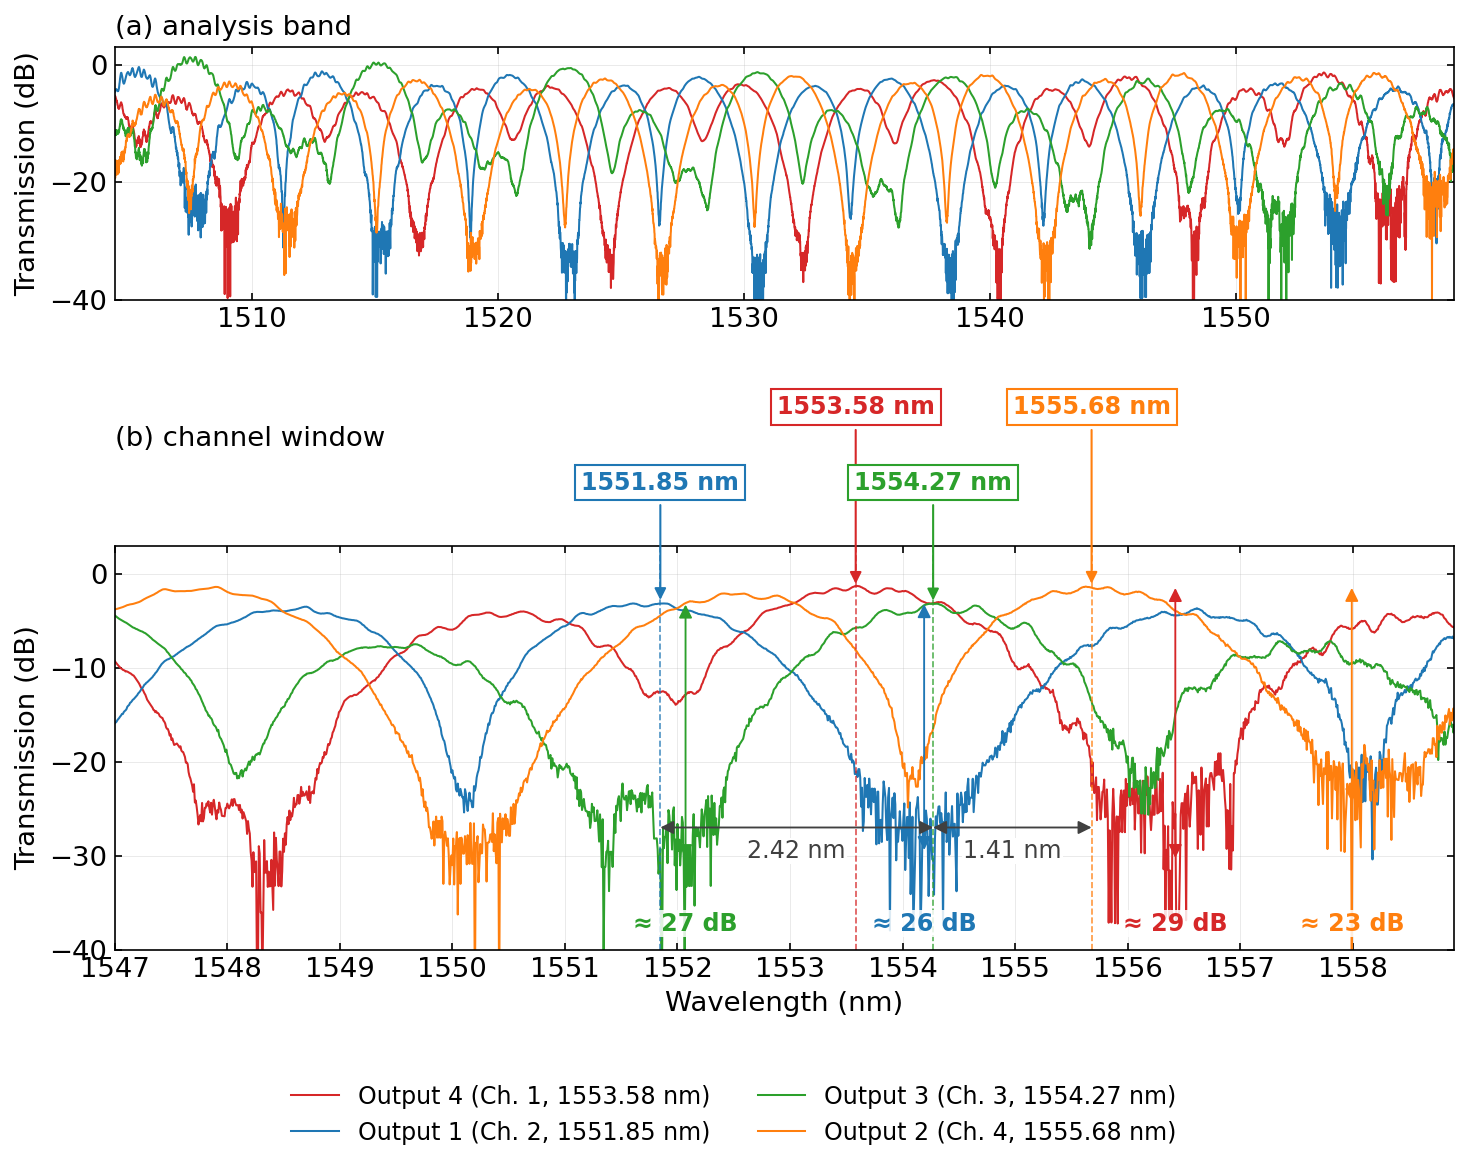
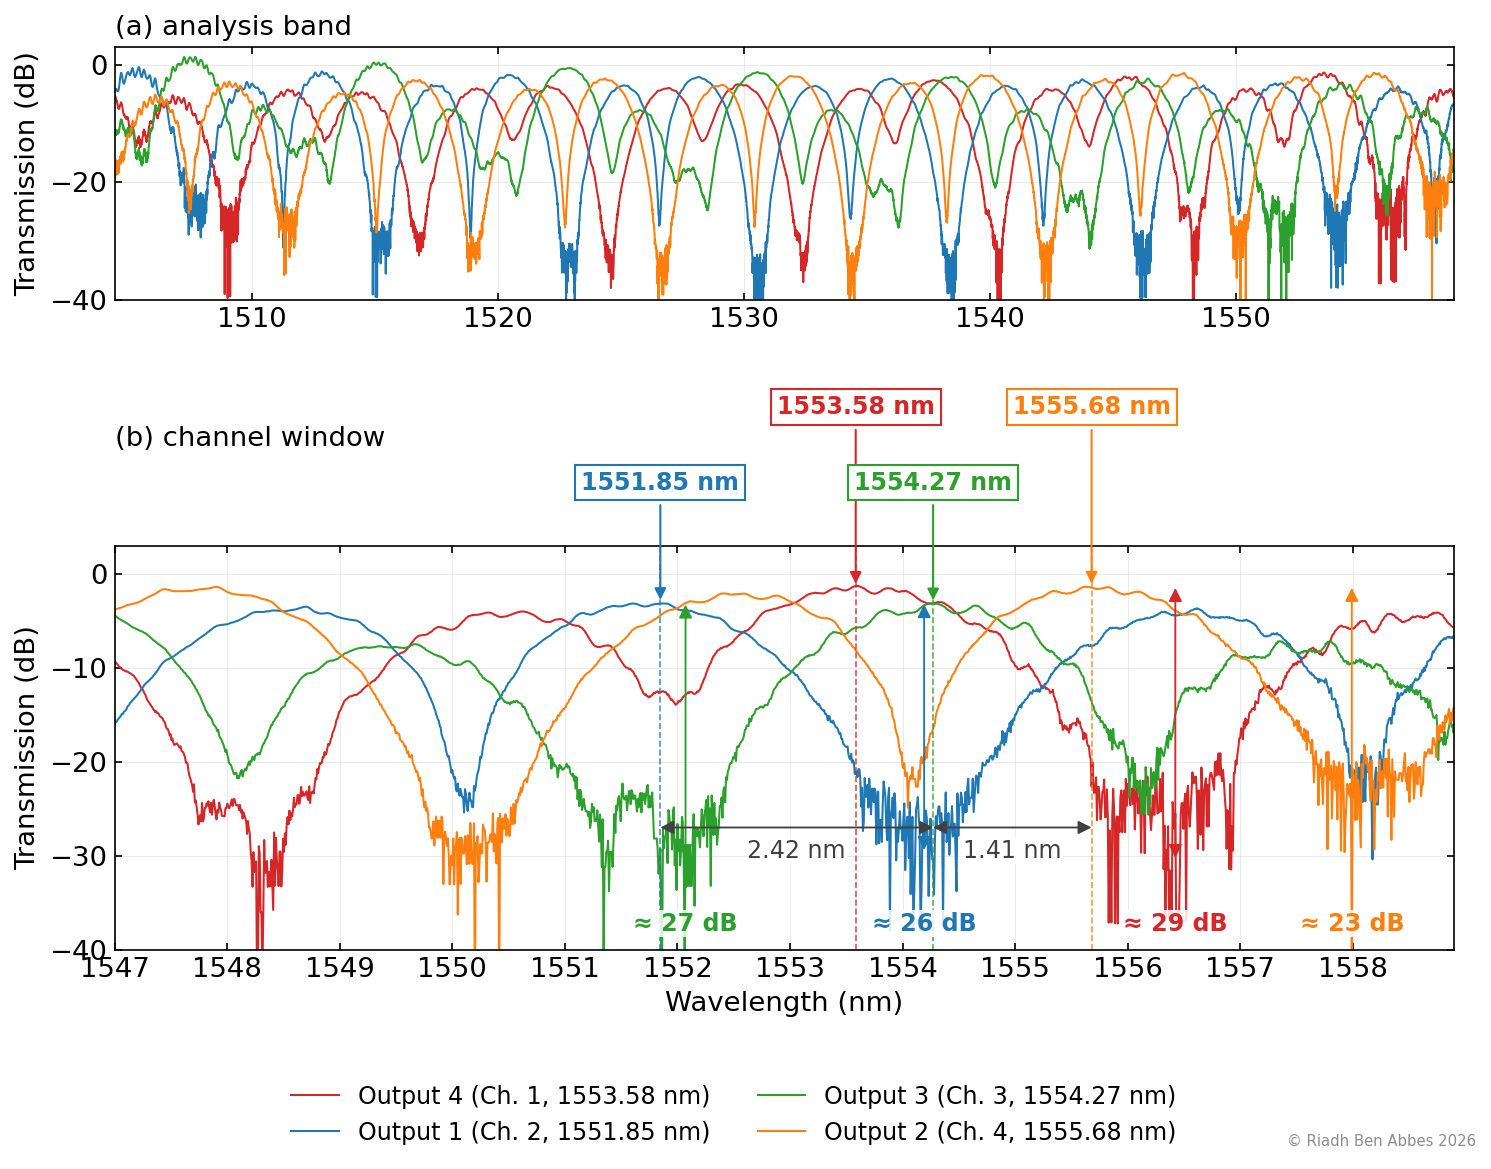
Add files via upload

diff --git a/cwdm-demux/index.html b/cwdm-demux/index.html
@@ -10,13 +10,13 @@
 <link href="https://fonts.googleapis.com/css2?family=Manrope:wght@400;500;600;700;800&family=IBM+Plex+Mono:wght@400;500;600&display=swap" rel="stylesheet">
 <style>
   :root{--substrate:#000;--raised:#0B0B12;--raised-2:#13131D;--line:#26263A;--accent:#7B8BFF;
-        --accent-hi:#AAB4FF;--coral:#FF6A55;--ink:#FFF;--ink-muted:#B9B9C8;--ink-faint:#70708A;
+        --accent-hi:#AAB4FF;--coral:#FF6A55;--ink:#FFF;--ink-muted:#FFFFFF;--ink-faint:#D9D9E6;
         color-scheme:dark;box-sizing:border-box;padding-top:env(safe-area-inset-top,0px);
         padding-bottom:env(safe-area-inset-bottom,0px);}
   *{box-sizing:border-box}
   html{scroll-behavior:smooth;scroll-padding-top:calc(76px + env(safe-area-inset-top,0px))}
   body{margin:0;background:var(--substrate);color:var(--ink);font-family:"Manrope",system-ui,sans-serif;
-        line-height:1.65;-webkit-font-smoothing:antialiased}
+        line-height:1.65;font-weight:500;-webkit-font-smoothing:antialiased}
   a{color:var(--accent);text-decoration:none} a:hover{color:var(--accent-hi)}
   header{position:sticky;top:env(safe-area-inset-top,0px);z-index:10;background:rgba(0,0,0,.85);
           backdrop-filter:blur(10px);border-bottom:1px solid var(--line)}
@@ -64,19 +64,15 @@
 <main>
   <div class="eyebrow">Integrated photonics · design → fabrication → measurement</div>
   <h1>SOI 1×4 cascaded-MZI wavelength demultiplexer at 1550 nm</h1>
-<p>We present a four-channel, silicon-photonic wavelength demultiplexer
-made using a two-stage cascade of Mach–Zehnder interferometers with
-broadband directional couplers, on a 2 nm channel grid from 1553 to 1559
-nm. The fabricated device shows passbands with a 3-dB bandwidth of 1.6
-to 1.8 nm, extinction ratios of 23 to 35 dB and a normalized insertion
-loss of 1.5 to 3.3 dB. It was fabricated through the Applied Nanotools
-NanoSOI MPW process on 500 × 220 nm strip waveguides and measured at UBC
-within the UBCx Phot1x course [5].</p>
+<p>We present a four-channel silicon photonic wavelength demultiplexer
+based on cascaded Mach–Zehnder interferometers with broadband
+directional couplers, operating on a 2 nm channel grid from 1553 to 1559
+nm. Fabricated using 500 × 220 nm strip waveguides, the device exhibits
+3-dB bandwidths of 1.6–1.8 nm, extinction ratios of 23–35 dB, and
+normalized insertion losses of 1.5–3.3 dB at 1550 nm.</p>
 <img loading="lazy" src="figures/demux_animation.svg" width="100%" alt="Animated schematic of the 1x4 cascaded-MZI demultiplexer">
 
-<p><em>Light of the four channels is split by MZI 1 (2ΔL = 143 µm), then
-by MZI 2A and 2B (ΔL = 71.5 µm), each built with broadband directional
-couplers (bdc); unused coupler ports end in tapers.</em></p>
+<p><em>1×4 demux based on cascaded MZIs</em></p>
 <p>Every figure and number below is regenerated from the raw data by the
 analysis scripts available <a
 href="https://github.com/riadh-ben-abbes/Riadh/tree/main/cwdm-demux">on
@@ -101,7 +97,7 @@ dependent, whereas broadband directional couplers (BDCs) keep a near
 50/50 split over a wide band through an asymmetric phase-control section
 [1]. Here, four channels at 1553, 1555, 1557 and 1559 nm are targeted,
 using the SiEPIC PDK in KLayout and Lumerical INTERCONNECT for circuit
-simulation [7].</p>
+simulation [7], within the UBCx Phot1x course [5].</p>
 <h2 id="ii-theoretical-background">II. Theoretical background</h2>
 <h3 id="a-choice-of-the-path-length-differences">A. Choice of the
 path-length differences</h3>
@@ -274,34 +270,28 @@ stored in the GDS match the design:</p>
 <thead>
 <tr class="header">
 <th>Structure</th>
-<th>Arm lengths</th>
 <th>ΔL</th>
 </tr>
 </thead>
 <tbody>
 <tr class="odd">
 <td>Demultiplexer, MZI 1</td>
-<td>183.0 / 40.0 µm</td>
 <td>143.0 µm</td>
 </tr>
 <tr class="even">
 <td>Demultiplexer, MZI 2A</td>
-<td>111.5 / 40.0 µm</td>
 <td>71.5 µm</td>
 </tr>
 <tr class="odd">
 <td>Demultiplexer, MZI 2B</td>
-<td>111.5 / 40.0 µm</td>
 <td>71.5 µm</td>
 </tr>
 <tr class="even">
 <td>Test MZI, stage 1</td>
-<td>183.0 / 40.0 µm</td>
 <td>143.0 µm</td>
 </tr>
 <tr class="odd">
 <td>Test MZI, stage 2</td>
-<td>111.5 / 40.0 µm</td>
 <td>71.5 µm</td>
 </tr>
 </tbody>
@@ -320,7 +310,7 @@ remaining output is routed to a grating coupler (Fig. 6).</p>
 
 <p><em>Fig. 6. KLayout view of the duplicate demultiplexer in the second
 layout: only the output of MZI 2A that is terminated in the first layout
-is routed (top grating coupler).</em></p>
+is routed, to Output GC4.</em></p>
 <h2 id="vi-device-fabrication">VI. Device fabrication</h2>
 <p>The chip was fabricated through the Applied Nanotools NanoSOI MPW
 process [6]: 100 keV electron-beam lithography on 220 nm SOI with a 2 µm
@@ -473,32 +463,13 @@ duplicate device.</em></p>
 </tr>
 </tbody>
 </table></div>
-<p>Outputs 1, 3 and 2, recorded in the same scan, are spaced by 2.42 and
-1.41 nm instead of 2 nm, the same non-uniform pattern as in simulation.
-ER is the peak-to-null extinction of each output within ±4 nm of its
-peak, as in Section VII; it ranges from 23 to 35 dB over the whole
-analysis band. Isolation is the margin between an output and the
-strongest other output at its peak, so it is only defined for Outputs 1
-to 3, recorded in the same scan. The FSR is 7.74–7.90 nm.</p>
-<p><strong>Output assignment.</strong> Two ports of the same stage-2 MZI
-should sum to a clean stage-1 response with a 4 nm period. The two
-outputs recorded on GC2 and GC3 do so (80 % of the fluctuating power at
-the 4 nm period), which confirms that they are the two MZI 2B ports; the
-third output (GC1) is the routed MZI 2A port. Matching the three spectra
-to the simulation gives a common offset of either −3.5 nm or +0.4 nm,
-depending on which simulated port corresponds to GC1. The table and Fig.
-9 use the −3.5 nm hypothesis, which is physically expected for
-waveguides narrower than designed: Outputs 1 to 3 then peak 2.7 to 3.3
-nm below their targets. The port numbering of the INTERCONNECT schematic
-will confirm it.</p>
-<p>Output 4 was recorded on the duplicate demultiplexer of the second
-layout (16 Nov 2025), whose single routed output is the MZI 2A port
-terminated on the first device, so it is assigned to the remaining
-channel by elimination. Its spectrum, however, does not fit this
-assignment: it peaks 0.6 nm above its target instead of about 3 nm
-below, and it does not sum with Output 3 into a clean 4 nm response (56
-% at best, for any relative shift between the two devices). A new
-measurement of this output is needed to confirm it.</p>
+<p>Outputs 1, 3 and 2 are spaced by 2.42 and 1.41 nm instead of 2 nm, as
+in simulation, with an FSR of 7.74–7.90 nm. Channel targets assume a
+−3.5 nm offset, attributed to manufacturing variability: deviations of
+the waveguide width and thickness shift the effective index, and hence
+the channels, and slightly alter the BDC splitting ratio, which limits
+the extinction. Output 4, measured on the duplicate device, is assigned
+to the remaining channel by elimination.</p>
 <h2 id="ix-conclusion">IX. Conclusion</h2>
 <p>A four-channel SOI demultiplexer based on a two-stage cascaded MZI
 tree with broadband directional couplers was designed, simulated,
@@ -589,6 +560,6 @@ Université / CNRS.</p>
 
   <p style="margin-top:48px"><a class="btn primary" href="https://github.com/riadh-ben-abbes/Riadh/tree/main/cwdm-demux" target="_blank" rel="noopener">Code, raw data and analysis scripts on GitHub ↗</a></p>
 </main>
-<footer><div class="bar"><span>© Riadh Ben Abbes</span><a href="../">Back to portfolio</a></div></footer>
+<footer><div class="bar"><span>© 2026 Riadh Ben Abbes. All rights reserved.</span><a href="../">Back to portfolio</a></div></footer>
 </body>
 </html>

diff --git a/cwdm-demux/analysis/stamp_images.py b/cwdm-demux/analysis/stamp_images.py
@@ -1,0 +1,52 @@
+"""Add grating-coupler labels to the KLayout screenshots and the author signature
+to the images that are not generated by a plotting script (hand-drawn schematics,
+KLayout screenshots). Originals are kept in
+figures/source/, signed copies are written to figures/.
+Run from the repository root:  python analysis/stamp_images.py
+"""
+from pathlib import Path
+from PIL import Image, ImageDraw, ImageFont
+
+ROOT = Path(__file__).resolve().parents[1]
+SRC = ROOT / "figures" / "source"
+OUT = ROOT / "figures"
+SIGNATURE = "© Riadh Ben Abbes 2026"
+INK = (25, 25, 35)
+
+# grating-coupler labels on the KLayout screenshots: (text, x, y) in source pixels,
+# text anchored by its left edge, placed next to each coupler
+GC_LABELS = {
+    "fig06_layout_klayout.png": [("Output GC1", 18, 78), ("Input GC", 18, 335),
+                                 ("Output GC2", 18, 592), ("Output GC3", 18, 760),
+                                 ("1×4 demux", 490, 222), ("Test MZI 1", 700, 622),
+                                 ("Test MZI 2", 1062, 520)],
+    "fig06b_layout_duplicate_klayout.png": [("Output GC4", 18, 73), ("Input GC", 18, 335),
+                                            ("1×4 demux", 490, 222)],
+}
+
+
+def stamp(path):
+    im = Image.open(path).convert("RGB")
+    d = ImageDraw.Draw(im)
+    if path.name in GC_LABELS:
+        try:
+            bold = ImageFont.truetype("DejaVuSans-Bold.ttf", max(14, im.width // 75))
+        except OSError:
+            bold = ImageFont.load_default()
+        for text, x, y in GC_LABELS[path.name]:
+            d.text((x, y), text, fill=INK, font=bold)
+    size = max(11, im.width // 70)
+    try:
+        font = ImageFont.truetype("DejaVuSans.ttf", size)
+    except OSError:
+        font = ImageFont.load_default()
+    w = d.textlength(SIGNATURE, font=font)
+    x, y = im.width - w - size * 0.8, im.height - size * 1.6
+    d.text((x, y), SIGNATURE, fill=(140, 140, 150), font=font)
+    im.save(OUT / path.name, optimize=True)
+
+
+if __name__ == "__main__":
+    for f in sorted(SRC.glob("*.png")):
+        stamp(f)
+        print("signed", f.name)

diff --git a/cwdm-demux/analysis/plotstyle.py b/cwdm-demux/analysis/plotstyle.py
@@ -14,6 +14,7 @@ from PIL import Image
 
 ROOT = Path(__file__).resolve().parents[1]
 FIG = ROOT / "figures"
+SIGNATURE = "© Riadh Ben Abbes 2026"
 
 PROFILES = {
     "paper": dict(w1=3.5, w2=7.16, font=8, small=6.5, lw=0.8, dpi=300,
@@ -71,6 +72,8 @@ def save(fig, stem, profile):
         _to_rgb(out / f"{stem}.png")
     else:
         FIG.mkdir(exist_ok=True)
+        fig.text(0.995, 0.005, SIGNATURE, ha="right", va="bottom",
+                 fontsize=0.75 * p["small"], color="0.55")
         fig.savefig(FIG / f"{stem}.png", dpi=p["dpi"], bbox_inches="tight")
         _to_rgb(FIG / f"{stem}.png")
     plt.close(fig)

diff --git a/cwdm-demux/analysis/annotate_micrograph.py b/cwdm-demux/analysis/annotate_micrograph.py
@@ -88,6 +88,8 @@ def main():
         ax.text(PITCH_X - 25, (y0 + y1) / 2, "127 µm", color=WHITE, fontsize=FS,
                 ha="right", va="center")
 
+    ax.text(x1 - 25, yb - 25, "© Riadh Ben Abbes 2026", color="white", alpha=0.8,
+            fontsize=FS - 1, ha="right", va="bottom")
     fig.subplots_adjust(0, 0, 1, 1)
     fig.savefig(OUT, dpi=250, pil_kwargs={"quality": 90})
 

diff --git a/cwdm-demux/README.md b/cwdm-demux/README.md
@@ -1,10 +1,10 @@
 # SOI 1×4 cascaded-MZI wavelength demultiplexer at 1550 nm
 
-We present a four-channel silicon photonic wavelength demultiplexer based on cascaded Mach–Zehnder interferometers with broadband directional couplers, operating on a 2 nm channel grid from 1553 to 1559 nm. Fabricated using 500 × 220 nm² strip waveguides, the device exhibits 3-dB bandwidths of 1.6–1.8 nm, extinction ratios of 23–35 dB, and normalized insertion losses of 1.5–3.3 dB at 1550 nm.
+We present a four-channel silicon photonic wavelength demultiplexer based on cascaded Mach–Zehnder interferometers with broadband directional couplers, operating on a 2 nm channel grid from 1553 to 1559 nm. Fabricated using 500 × 220 nm strip waveguides, the device exhibits 3-dB bandwidths of 1.6–1.8 nm, extinction ratios of 23–35 dB, and normalized insertion losses of 1.5–3.3 dB at 1550 nm.
 
 <img src="figures/demux_animation.svg" width="100%" alt="Animated schematic of the 1x4 cascaded-MZI demultiplexer">
 
-*Light of the four channels is split by MZI 1 (2ΔL = 143 µm), then by MZI 2A and 2B (ΔL = 71.5 µm), each built with broadband directional couplers (bdc); unused coupler ports end in tapers.*
+*1×4 demux based on cascaded MZIs*
 
 Every figure and number below is regenerated from the raw data in this repository by the scripts in `analysis/`.
 
@@ -16,7 +16,7 @@ Wavelength division multiplexing (WDM) carries several optical channels on a sin
 
 *Fig. 1. Coarse WDM link. This work implements the on-chip 1×4 demultiplexer for four channels on a 2 nm grid.*
 
-Cascaded Mach–Zehnder interferometers (MZIs) are well established for on-chip wavelength routing [3] and provide a passive alternative to microring filters [4], which generally require active resonance tuning. Their performance depends on the splitting ratio of the couplers at each stage: conventional directional couplers are strongly wavelength dependent, whereas broadband directional couplers (BDCs) keep a near 50/50 split over a wide band through an asymmetric phase-control section [1]. Here, four channels at 1553, 1555, 1557 and 1559 nm are targeted, using the SiEPIC PDK in KLayout and Lumerical INTERCONNECT for circuit simulation [7].
+Cascaded Mach–Zehnder interferometers (MZIs) are well established for on-chip wavelength routing [3] and provide a passive alternative to microring filters [4], which generally require active resonance tuning. Their performance depends on the splitting ratio of the couplers at each stage: conventional directional couplers are strongly wavelength dependent, whereas broadband directional couplers (BDCs) keep a near 50/50 split over a wide band through an asymmetric phase-control section [1]. Here, four channels at 1553, 1555, 1557 and 1559 nm are targeted, using the SiEPIC PDK in KLayout and Lumerical INTERCONNECT for circuit simulation [7], within the UBCx Phot1x course [5].
 
 ## II. Theoretical background
 
@@ -87,13 +87,13 @@ The layout was generated with the SiEPIC PDK in KLayout. Two layouts were fabric
 
 The path-length differences extracted from the waveguide lengths stored in the GDS match the design:
 
-| Structure | Arm lengths | ΔL |
-|---|---|---|
-| Demultiplexer, MZI 1 | 183.0 / 40.0 µm | 143.0 µm |
-| Demultiplexer, MZI 2A | 111.5 / 40.0 µm | 71.5 µm |
-| Demultiplexer, MZI 2B | 111.5 / 40.0 µm | 71.5 µm |
-| Test MZI, stage 1 | 183.0 / 40.0 µm | 143.0 µm |
-| Test MZI, stage 2 | 111.5 / 40.0 µm | 71.5 µm |
+| Structure | ΔL |
+|---|---|
+| Demultiplexer, MZI 1 | 143.0 µm |
+| Demultiplexer, MZI 2A | 71.5 µm |
+| Demultiplexer, MZI 2B | 71.5 µm |
+| Test MZI, stage 1 | 143.0 µm |
+| Test MZI, stage 2 | 71.5 µm |
 
 MZI 2A and 2B have strictly identical delay lines, with no phase offset between them, which is consistent with the non-uniform channel spacing discussed in Section VII. One output of MZI 2A ends in an `ebeam_terminator_te1550` on purpose: the fiber array of the test setup gives access to one input and three outputs per device, so this cell routes three outputs.
 
@@ -101,7 +101,7 @@ The second layout, [`EBeam_RiadhCWDM_otp1.gds`](layout/EBeam_RiadhCWDM_otp1.gds)
 
 <img src="figures/fig06b_layout_duplicate_klayout.png" width="100%">
 
-*Fig. 6. KLayout view of the duplicate demultiplexer in the second layout: only the output of MZI 2A that is terminated in the first layout is routed (top grating coupler).*
+*Fig. 6. KLayout view of the duplicate demultiplexer in the second layout: only the output of MZI 2A that is terminated in the first layout is routed, to Output GC4.*
 
 ## VI. Device fabrication
 
@@ -147,11 +147,7 @@ Spectra were recorded with a swept tunable laser from 1475 to 1583 nm (8 pm step
 | Ch. 3 (Output 3, MZI 2A) | 1557 nm | 1554.27 nm | 1.72 nm | 3.26 dB | 27.0 dB | 13.0 dB |
 | Ch. 4 (Output 2, MZI 2B) | 1559 nm | 1555.68 nm | 1.70 nm | 1.48 dB | 22.8 dB | 6.0 dB |
 
-Outputs 1, 3 and 2, recorded in the same scan, are spaced by 2.42 and 1.41 nm instead of 2 nm, the same non-uniform pattern as in simulation. ER is the peak-to-null extinction of each output within ±4 nm of its peak, as in Section VII; it ranges from 23 to 35 dB over the whole analysis band. Isolation is the margin between an output and the strongest other output at its peak, so it is only defined for Outputs 1 to 3, recorded in the same scan. The FSR is 7.74–7.90 nm.
-
-**Output assignment.** Two ports of the same stage-2 MZI should sum to a clean stage-1 response with a 4 nm period. The two outputs recorded on GC2 and GC3 do so (80 % of the fluctuating power at the 4 nm period), which confirms that they are the two MZI 2B ports; the third output (GC1) is the routed MZI 2A port. Matching the three spectra to the simulation gives a common offset of either −3.5 nm or +0.4 nm, depending on which simulated port corresponds to GC1. The table and Fig. 9 use the −3.5 nm hypothesis, which is physically expected for waveguides narrower than designed: Outputs 1 to 3 then peak 2.7 to 3.3 nm below their targets. The port numbering of the INTERCONNECT schematic will confirm it.
-
-Output 4 was recorded on the duplicate demultiplexer of the second layout (16 Nov 2025), whose single routed output is the MZI 2A port terminated on the first device, so it is assigned to the remaining channel by elimination. Its spectrum, however, does not fit this assignment: it peaks 0.6 nm above its target instead of about 3 nm below, and it does not sum with Output 3 into a clean 4 nm response (56 % at best, for any relative shift between the two devices). A new measurement of this output is needed to confirm it.
+Outputs 1, 3 and 2 are spaced by 2.42 and 1.41 nm instead of 2 nm, as in simulation, with an FSR of 7.74–7.90 nm. Channel targets assume a −3.5 nm offset, attributed to manufacturing variability: deviations of the waveguide width and thickness shift the effective index, and hence the channels, and slightly alter the BDC splitting ratio, which limits the extinction. Output 4, measured on the duplicate device, is assigned to the remaining channel by elimination.
 
 ## IX. Conclusion
 
@@ -177,6 +173,7 @@ python analysis/bdc_analysis.py
 python analysis/mzi_fit.py measurement/raw/mzi_stage1_dL143_2025-11-17_025351.mat --name fig06_mzi_stage1
 python analysis/mzi_fit.py measurement/raw/mzi_stage2_dL71p5_2025-11-17_025229.mat --name fig07_mzi_stage2
 python analysis/annotate_micrograph.py
+python analysis/stamp_images.py
 python analysis/sim_interconnect.py
 python analysis/meas_demux.py
 ```
@@ -209,6 +206,10 @@ The photonic devices were fabricated using the NanoSOI MPW fabrication process b
 After an initial wafer clean in piranha solution (3:1 H₂SO₄:H₂O₂) for 15 minutes and a water/IPA rinse, hydrogen silsesquioxane (HSQ) resist was spin-coated onto the substrate and heated to evaporate the solvent. The devices were patterned using a JEOL JBX-8100FS electron-beam instrument at The University of British Columbia. The exposure dose was corrected for proximity effects resulting from the backscatter of electrons from nearby features, and the shape writing order was optimized for efficient patterning and minimal beam drift.
 
 After exposure and development in a tetramethylammonium hydroxide (TMAH) solution, the devices were inspected optically for residues and defects. The chips were then mounted on a 4" handle wafer and etched by an anisotropic chlorine-based ICP-RIE process, after qualification of the etch rate. The resist was removed using a 10:1 buffered oxide etch, and the devices were inspected by scanning electron microscopy (SEM) to verify patterning and etch quality. A 2.2 µm oxide cladding was deposited by plasma-enhanced chemical vapor deposition (PECVD) based on tetraethyl orthosilicate (TEOS) at 300 °C. Reflectometry measurements were performed throughout the process to verify the device layer, buffer oxide and cladding thicknesses before delivery.
+
+## License
+
+© 2026 Riadh Ben Abbes. All rights reserved. This work is shared for consultation only: no part of it (code, data, layouts, figures, text) may be reproduced, modified or redistributed without the author's prior written permission. See [LICENSE](LICENSE).
 
 ## Author
 
